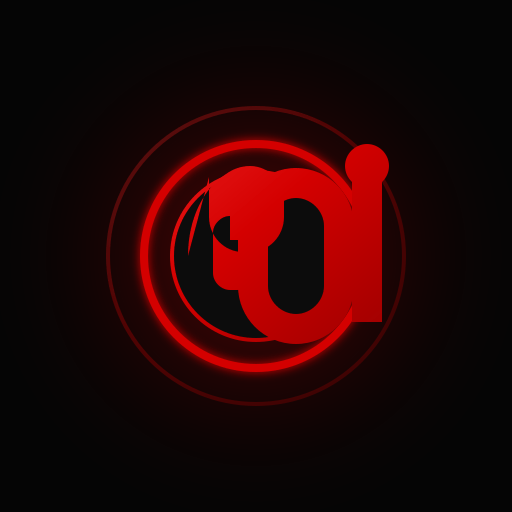
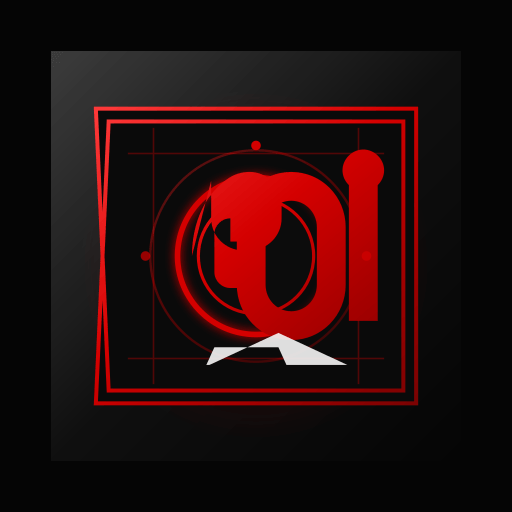
dfsgsgf

diff --git a/src/index.css b/src/index.css
@@ -809,16 +809,41 @@ textarea.ios-input {
   margin-left: auto;
 }
 
-@media (max-width: 767px) {
+@media (max-width: 1279px) {
   .ios-nav:not(.ios-nav-app) .ios-nav-inner {
+    display: grid;
+    grid-template-columns: minmax(0, 1fr) auto;
+    align-items: center;
+    gap: 0.5rem;
     padding-top: max(0.7rem, env(safe-area-inset-top, 0px));
     padding-left: max(1rem, env(safe-area-inset-left, 0px));
     padding-right: max(1rem, env(safe-area-inset-right, 0px));
     min-height: 3.35rem;
   }
 
+  .ios-nav:not(.ios-nav-app) .ios-nav-mega,
+  .ios-nav:not(.ios-nav-app) .ios-nav-actions,
+  .ios-nav:not(.ios-nav-app) .ios-nav-mobile-cta {
+    display: none !important;
+  }
+
+  .ios-nav-toggle-wrap-guest {
+    margin-left: 0;
+    grid-column: 2;
+  }
+
+  .ios-nav-toggle-wrap-guest .ios-nav-toggle {
+    display: flex !important;
+    min-width: 2.75rem;
+    min-height: 2.75rem;
+    justify-content: center;
+    padding: 0.45rem 0.55rem;
+  }
+
   .ios-brand-lockup {
-    max-width: calc(100% - 3.5rem);
+    min-width: 0;
+    max-width: 100%;
+    grid-column: 1;
   }
 
   .ios-brand-title {
@@ -830,13 +855,9 @@ textarea.ios-input {
     font-size: 0.5rem;
     letter-spacing: 0.22em;
   }
-
-  .ios-nav-mobile-cta {
-    display: none;
-  }
 }
 
-@media (min-width: 1024px) {
+@media (min-width: 1280px) {
   .ios-nav-toggle-wrap {
     margin-left: 0;
   }
@@ -862,7 +883,7 @@ textarea.ios-input {
   background: rgba(212, 0, 0, 0.08);
 }
 
-@media (min-width: 1024px) {
+@media (min-width: 1280px) {
   .ios-nav-toggle {
     display: none;
   }
@@ -13942,5 +13963,14 @@ body.ios-app-shell .ios-pwa-install {
 @media (display-mode: standalone) {
   .ios-pwa-install {
     display: none;
+  }
+
+  .ios-nav-hidden {
+    transform: none !important;
+  }
+
+  .ios-nav-app .ios-nav-app-menu-btn {
+    position: relative;
+    z-index: 2;
   }
 }

diff --git a/src/components/pwa/PwaInstallPrompt.tsx b/src/components/pwa/PwaInstallPrompt.tsx
@@ -1,18 +1,12 @@
 import { useCallback, useEffect, useState } from 'react'
 import clsx from 'clsx'
+import { isStandalonePwa } from '@/lib/pwa/standalone'
 
 const DISMISS_KEY = 'ios_pwa_install_dismiss'
 
 interface BeforeInstallPromptEvent extends Event {
   prompt: () => Promise<void>
   userChoice: Promise<{ outcome: 'accepted' | 'dismissed' }>
-}
-
-function isStandalone() {
-  return (
-    window.matchMedia('(display-mode: standalone)').matches ||
-    (window.navigator as Navigator & { standalone?: boolean }).standalone === true
-  )
 }
 
 function isIos() {
@@ -28,7 +22,7 @@ export function PwaInstallPrompt() {
   const [installing, setInstalling] = useState(false)
 
   useEffect(() => {
-    if (isStandalone()) return
+    if (isStandalonePwa()) return
 
     if (isIos()) {
       setShowIosHint(true)
@@ -61,7 +55,7 @@ export function PwaInstallPrompt() {
     }
   }, [installEvent, dismiss])
 
-  if (isStandalone() || dismissed) return null
+  if (isStandalonePwa() || dismissed) return null
   if (!installEvent && !showIosHint) return null
 
   return (

diff --git a/src/components/layout/Navbar.tsx b/src/components/layout/Navbar.tsx
@@ -13,6 +13,7 @@ import { NetworkNotificationsPanel } from '@/components/community/NetworkNotific
 import { IOSImage } from '@/components/ui/IOSImage'
 import type { NavGroupId, NavLink } from '@/types'
 import clsx from 'clsx'
+import { isStandalonePwa } from '@/lib/pwa/standalone'
 
 interface NavbarProps {
   links: NavLink[]
@@ -52,6 +53,7 @@ export function Navbar({ links, appMode = false }: NavbarProps) {
   const isArtistSite = /^\/artist\/[^/]+$/.test(location.pathname)
   const groups = groupNavLinks(links)
   const appLabel = appSectionLabel(location.pathname)
+  const standalonePwa = isStandalonePwa()
 
   const linkActive = (href: string) =>
     isLinkActive(href, location.pathname, location.hash)
@@ -133,7 +135,7 @@ export function Navbar({ links, appMode = false }: NavbarProps) {
         appMode && 'ios-nav-app',
         isArtistSite && 'ios-nav-artist-site',
         !appMode && scrolled && !isArtistSite && 'ios-nav-scrolled',
-        !appMode && hiddenOnScroll && 'ios-nav-hidden',
+        !appMode && hiddenOnScroll && !standalonePwa && 'ios-nav-hidden',
         !appMode && !isArtistSite && !scrolled && isHome && 'ios-nav-home',
         !appMode && !isArtistSite && !isHome && 'ios-nav-solid'
       )}
@@ -212,11 +214,7 @@ export function Navbar({ links, appMode = false }: NavbarProps) {
               <ArtistNavActions />
             </div>
 
-            <div className="ios-nav-mobile-cta hidden md:flex lg:hidden">
-              <ArtistNavActions />
-            </div>
-
-            <div className="ios-nav-toggle-wrap">
+            <div className="ios-nav-toggle-wrap ios-nav-toggle-wrap-guest">
               <NavMenuToggle open={open} onClick={() => setOpen((v) => !v)} />
             </div>
           </>

diff --git a/index.html b/index.html
@@ -2,14 +2,19 @@
 <html lang="en">
   <head>
     <meta charset="UTF-8" />
-    <link rel="icon" type="image/svg+xml" href="/favicon.svg" />
+    <link rel="icon" type="image/svg+xml" href="/pwa/icon-master.svg" />
+    <link rel="icon" type="image/png" sizes="192x192" href="/pwa/icon-192.png" />
+    <link rel="icon" type="image/png" sizes="512x512" href="/pwa/icon-512.png" />
     <meta name="viewport" content="width=device-width, initial-scale=1.0, viewport-fit=cover" />
     <meta name="theme-color" content="#050505" />
     <meta name="mobile-web-app-capable" content="yes" />
     <meta name="apple-mobile-web-app-capable" content="yes" />
     <meta name="apple-mobile-web-app-status-bar-style" content="black-translucent" />
     <meta name="apple-mobile-web-app-title" content="IOS" />
-    <link rel="apple-touch-icon" href="/pwa/apple-touch-icon.png" />
+    <link rel="apple-touch-icon" href="/pwa/apple-touch-icon.png" sizes="180x180" />
+    <link rel="apple-touch-icon" href="/pwa/apple-touch-icon-167.png" sizes="167x167" />
+    <link rel="apple-touch-icon" href="/pwa/apple-touch-icon-152.png" sizes="152x152" />
+    <link rel="apple-touch-icon" href="/pwa/apple-touch-icon-120.png" sizes="120x120" />
     <meta
       name="description"
       content="Institute of Sound — underground music magazine. Reviews, features, bands, and culture."

diff --git a/src/lib/pwa/standalone.ts b/src/lib/pwa/standalone.ts
@@ -1,0 +1,8 @@
+/** True when running as an installed PWA (home screen / Add to Home Screen). */
+export function isStandalonePwa(): boolean {
+  if (typeof window === 'undefined') return false
+  return (
+    window.matchMedia('(display-mode: standalone)').matches ||
+    (window.navigator as Navigator & { standalone?: boolean }).standalone === true
+  )
+}

diff --git a/src/components/layout/Layout.tsx b/src/components/layout/Layout.tsx
@@ -1,5 +1,5 @@
 import { Outlet, useLocation } from 'react-router-dom'
-import { useEffect, useCallback } from 'react'
+import { useEffect, useCallback, useState } from 'react'
 import clsx from 'clsx'
 import { Navbar } from './Navbar'
 import { Footer } from './Footer'
@@ -16,12 +16,14 @@ import { useContent } from '@/hooks/useContent'
 import { getNav, getFooter } from '@/api/endpoints'
 import { useAuth } from '@/context/AuthContext'
 import { PwaInstallPrompt } from '@/components/pwa/PwaInstallPrompt'
+import { isStandalonePwa } from '@/lib/pwa/standalone'
 
 export function Layout() {
   useLenis()
   const location = useLocation()
   const { user, loading: authLoading } = useAuth()
-  const appMode = Boolean(user)
+  const [standalonePwa] = useState(isStandalonePwa)
+  const appMode = Boolean(user) || standalonePwa
   const fetchNav = useCallback(() => getNav(), [])
   const fetchFooter = useCallback(() => getFooter(), [])
   const { data: navLinks, loading: navLoading } = useContent(fetchNav)

diff --git a/vite.config.ts b/vite.config.ts
@@ -74,7 +74,11 @@ export default defineConfig(({ mode }) => {
         registerType: 'autoUpdate',
         includeAssets: [
           'favicon.svg',
+          'pwa/icon-master.svg',
           'pwa/apple-touch-icon.png',
+          'pwa/apple-touch-icon-167.png',
+          'pwa/apple-touch-icon-152.png',
+          'pwa/apple-touch-icon-120.png',
           'pwa/icon-192.png',
           'pwa/icon-512.png',
           'pwa/icon-512-maskable.png',